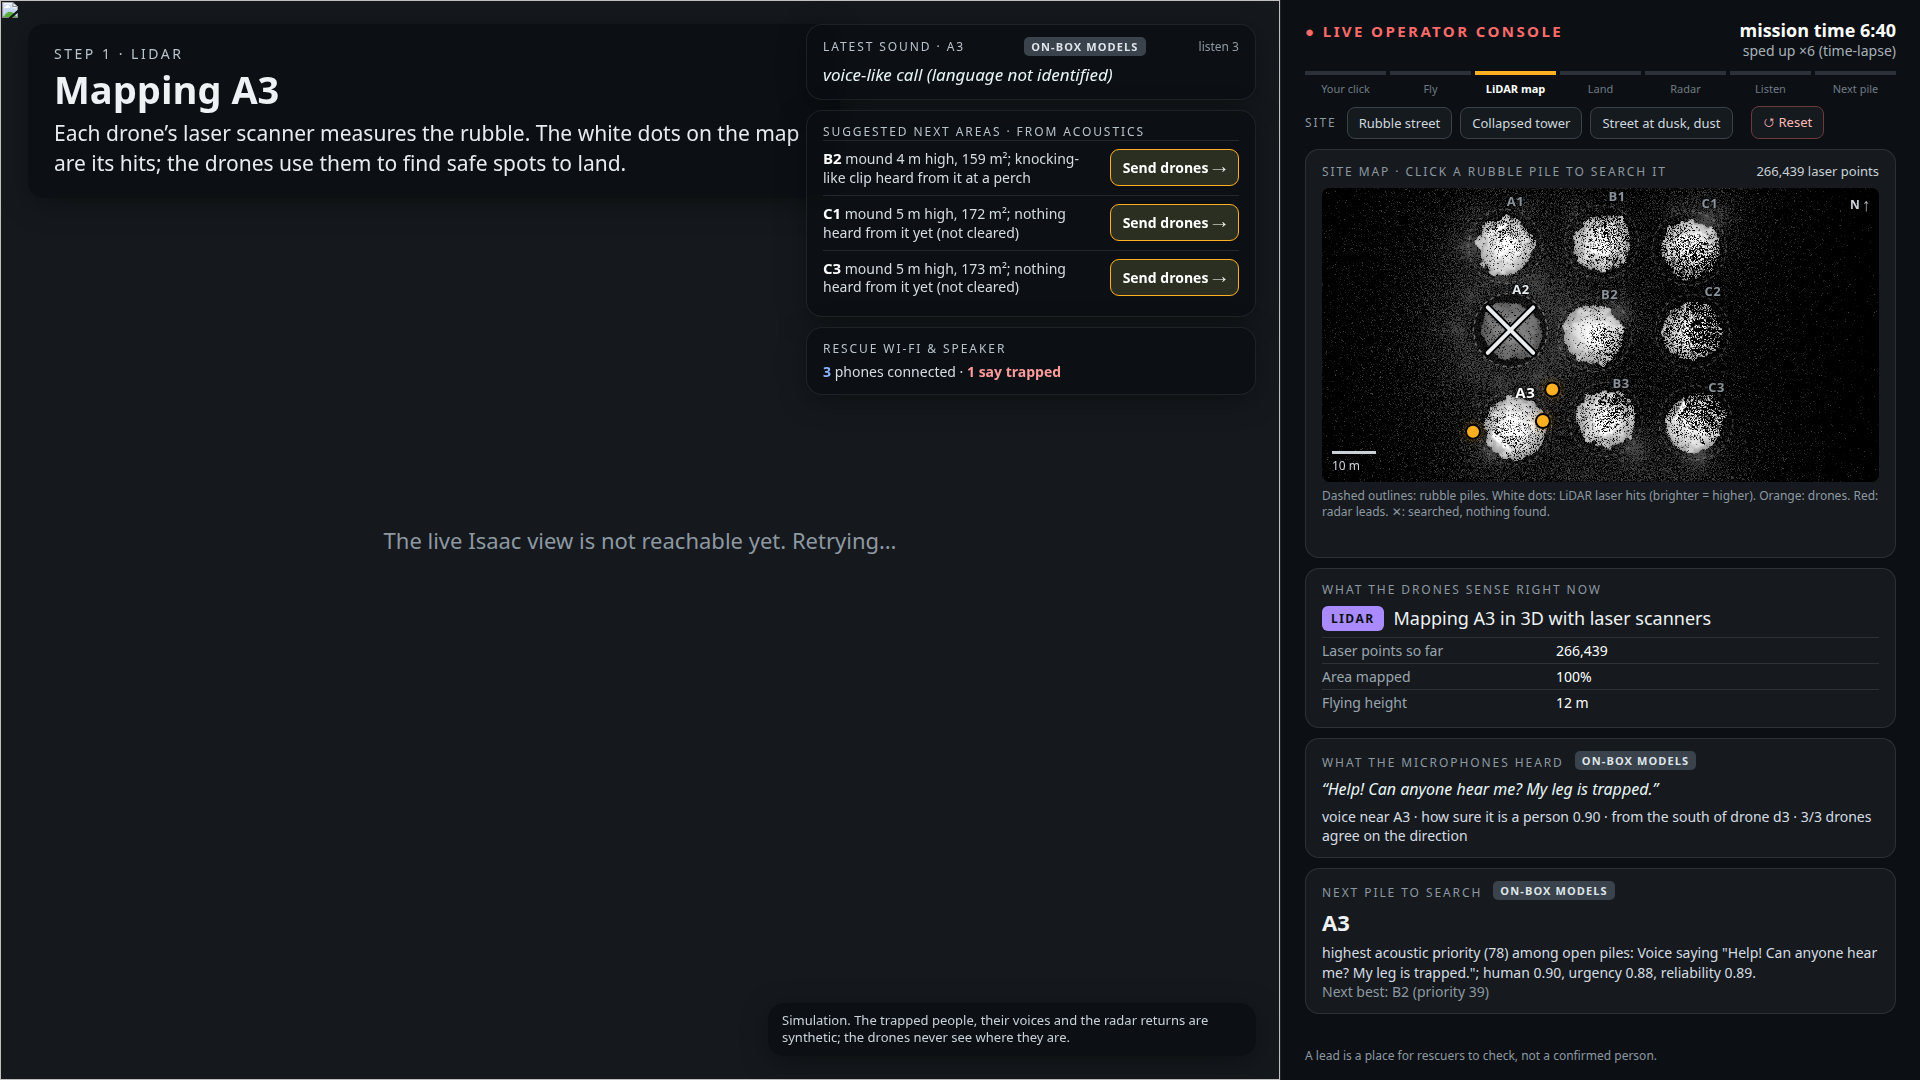
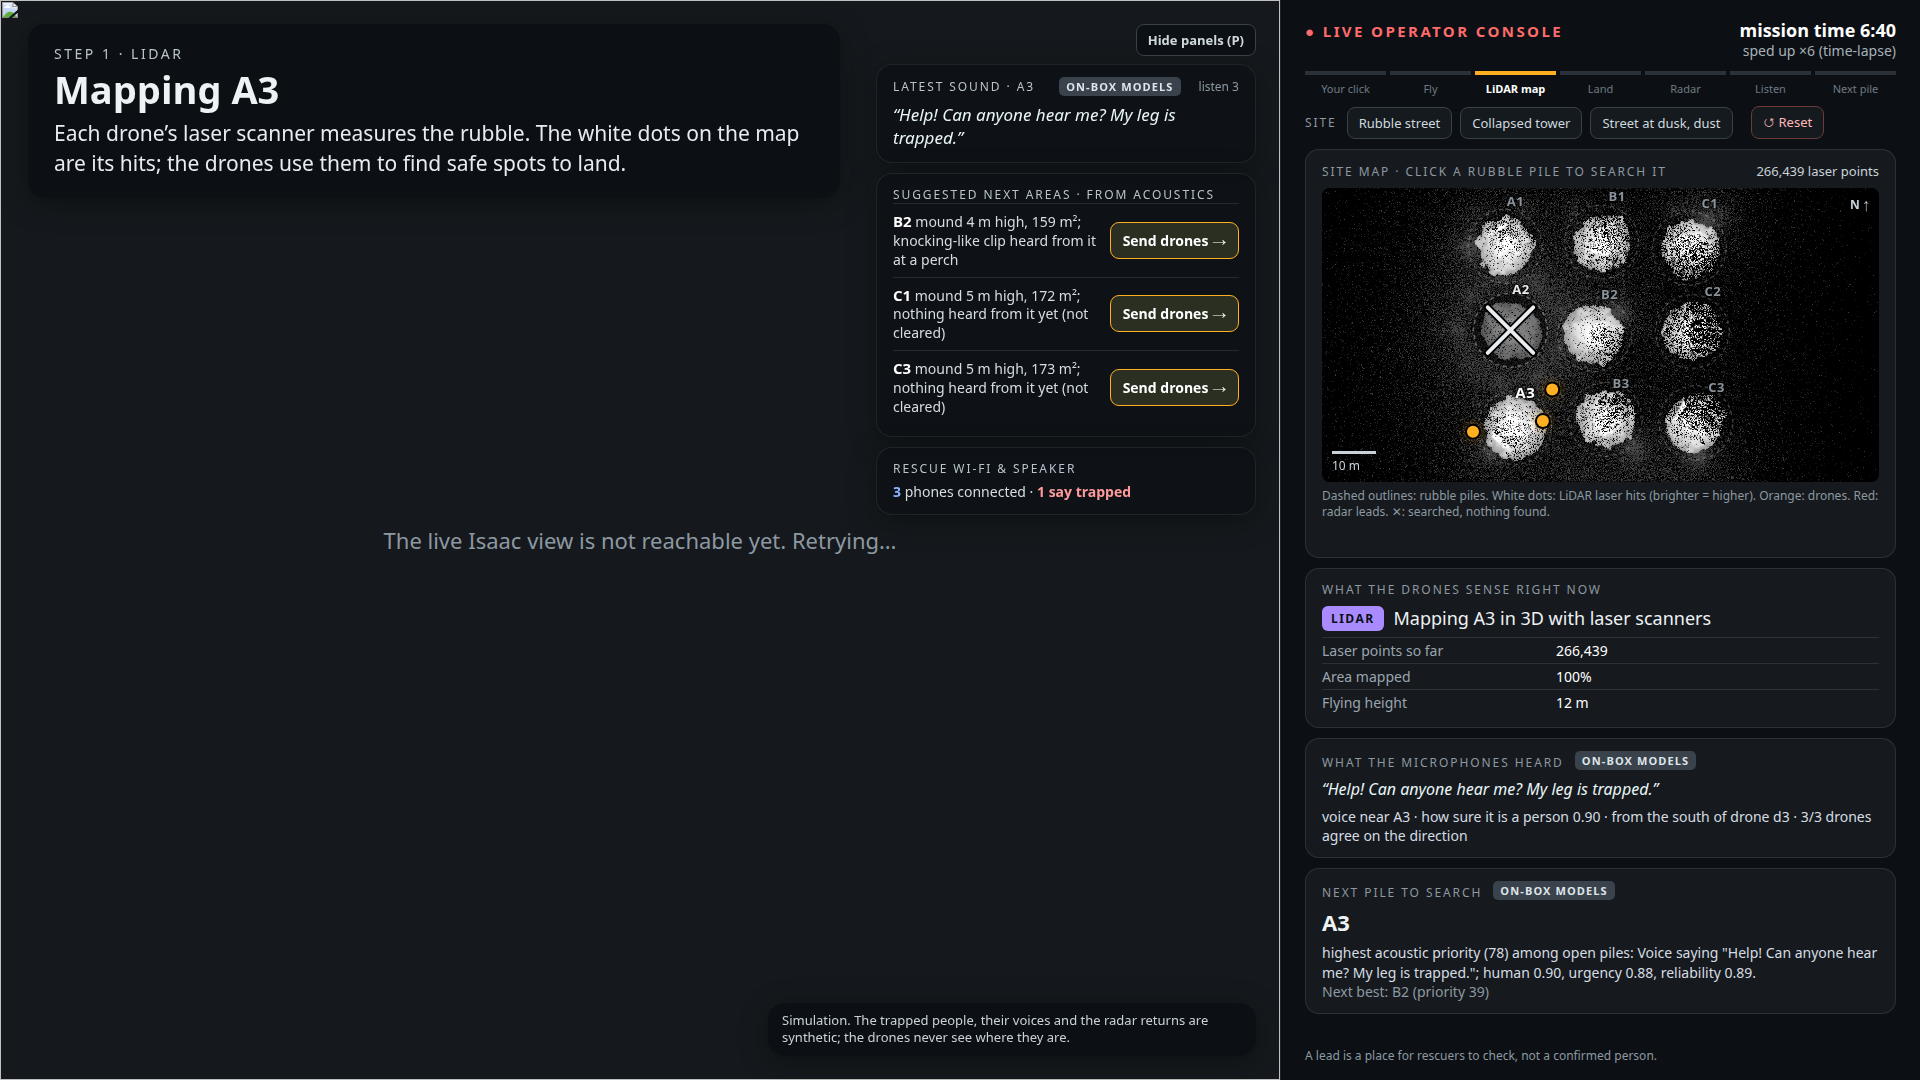
larpverse: isaac/hud console extras: LATEST SOUND uses the console's own heard() transcript (matches Rohan's panel; 'language not identified' only without a usable transcript); stack narrower (380 px), translucent, with a 'Hide/Show panels' toggle + key P (default shown) so the camera view can be cl
Synced from local HEAD 5c8128d.

Changed region(s): [[0.4375, 0.0306, 0.6562, 0.3972], [0.4688, 0.4278, 0.5938, 0.4583]]

diff --git a/larpverse/isaac/hud/console_extra.js b/larpverse/isaac/hud/console_extra.js
@@ -9,9 +9,9 @@
   if (!view) return;
   const css = document.createElement('style');
   css.textContent = `
-  #xstack { right:24px; top:24px; width:450px; max-height:960px; display:flex; flex-direction:column; gap:10px;
+  #xstack { right:24px; top:64px; width:380px; max-height:920px; display:flex; flex-direction:column; gap:10px;
             background:transparent; box-shadow:none; backdrop-filter:none; }
-  #xstack > .xc { background:rgba(10,14,18,0.78); border-radius:16px; backdrop-filter:blur(6px); box-shadow:0 6px 28px rgba(0,0,0,0.35);
+  #xstack > .xc { background:rgba(10,14,18,0.60); border-radius:16px; backdrop-filter:blur(6px); box-shadow:0 6px 28px rgba(0,0,0,0.35);
             padding:12px 16px; border:1px solid rgba(255,255,255,0.08); }
   #xstack .xh { font-size:12px; letter-spacing:.16em; text-transform:uppercase; color:#b8c3cc; display:flex; justify-content:space-between; gap:8px; align-items:baseline; }
   #xstack .xh i { font-style:normal; letter-spacing:0; text-transform:none; color:#8d98a1; font-size:12px; }
@@ -39,12 +39,24 @@
                color:#fff; cursor:pointer; white-space:nowrap; }
   .xs button:hover { background:#3a4128; }
   .xw { display:flex; flex-wrap:wrap; gap:4px 14px; font-size:14px; color:#d5dde3; margin-top:6px; line-height:1.35; }
-  .xw b { color:#8ab4ff; } .xw .tr { color:#ff9b9b; font-weight:700; }`;
+  .xw b { color:#8ab4ff; } .xw .tr { color:#ff9b9b; font-weight:700; }
+  #xtog { position:absolute; right:24px; top:24px; z-index:5; font:700 13px Inter, "Segoe UI", system-ui, sans-serif; padding:6px 11px;
+          border-radius:8px; border:1px solid #39424a; background:rgba(10,14,18,0.72); color:#cfd8de; cursor:pointer; user-select:none; }
+  #xtog:hover { border-color:#ffb020; color:#fff; }
+  #xstack.off { display:none !important; }`;
   document.head.appendChild(css);
   const box = document.createElement('div');
   box.className = 'hud'; box.id = 'xstack';
   const honest = document.getElementById('honest');
   view.insertBefore(box, honest || null);
+  // hide / show toggle (button + key P) so the live camera view can be cleared during a take; default shown
+  const tog = document.createElement('div'); tog.id = 'xtog'; tog.title = 'Hide or show the extra panels (key P)';
+  view.insertBefore(tog, honest || null);
+  let shownX = true;
+  const setShown = v => { shownX = v; box.classList.toggle('off', !v); tog.textContent = v ? 'Hide panels (P)' : 'Show panels (P)'; };
+  tog.addEventListener('click', () => setShown(!shownX));
+  addEventListener('keydown', e => { if ((e.key === 'p' || e.key === 'P') && !/INPUT|TEXTAREA|SELECT/.test((document.activeElement || {}).tagName || '') && !e.ctrlKey && !e.metaKey && !e.altKey) setShown(!shownX); });
+  setShown(true);
 
   const E = x => (typeof esc === 'function' ? esc(x) : String(x ?? '').replace(/[&<>"]/g, c => ({ '&': '&amp;', '<': '&lt;', '>': '&gt;', '"': '&quot;' }[c])));
   const name = id => (typeof pn === 'function' ? pn(id) : String(id ?? ''));
@@ -90,8 +102,10 @@
     const lname = lg ? (L[lg] || (c.languages && c.languages[0] && c.languages[0].name) || lg) : null;
     const orig = c.transcript_original || c.transcript || '';
     const tr = c.translation || (lg && /^en\b/.test(lg) ? orig : '');
-    const said = lg && (tr || orig)
+    const theirs = typeof heard === 'function' ? (() => { try { return heard(c); } catch (e) { return null; } })() : null;
+    const said = theirs ? theirs : lg && (tr || orig)
       ? `“${E(tr || orig)}”${orig && tr && orig !== tr ? `<small>spoken in ${E(lname)}: “${E(orig)}”</small>` : `<small>${E(lname)}</small>`}`
+      : orig ? `“${E(orig)}”<small>language not identified</small>`
       : `${E(String(c.class || 'sound').replace(/_/g, ' ') === 'voice' ? 'voice-like call' : String(c.class || 'sound').replace(/_/g, ' '))} (language not identified)`;
     const dist = (c.distress || []).map(d => `<span class="xtag">${E(String(d).replace(/_/g, ' '))}</span>`).join('');
     return `<div class="xc"><div class="xh">Latest sound · ${E(name(c.pile_id))} ${tag(by === 'gemini' ? 'gemini' : by ? 'box' : null)}<i>listen ${n}</i></div>
